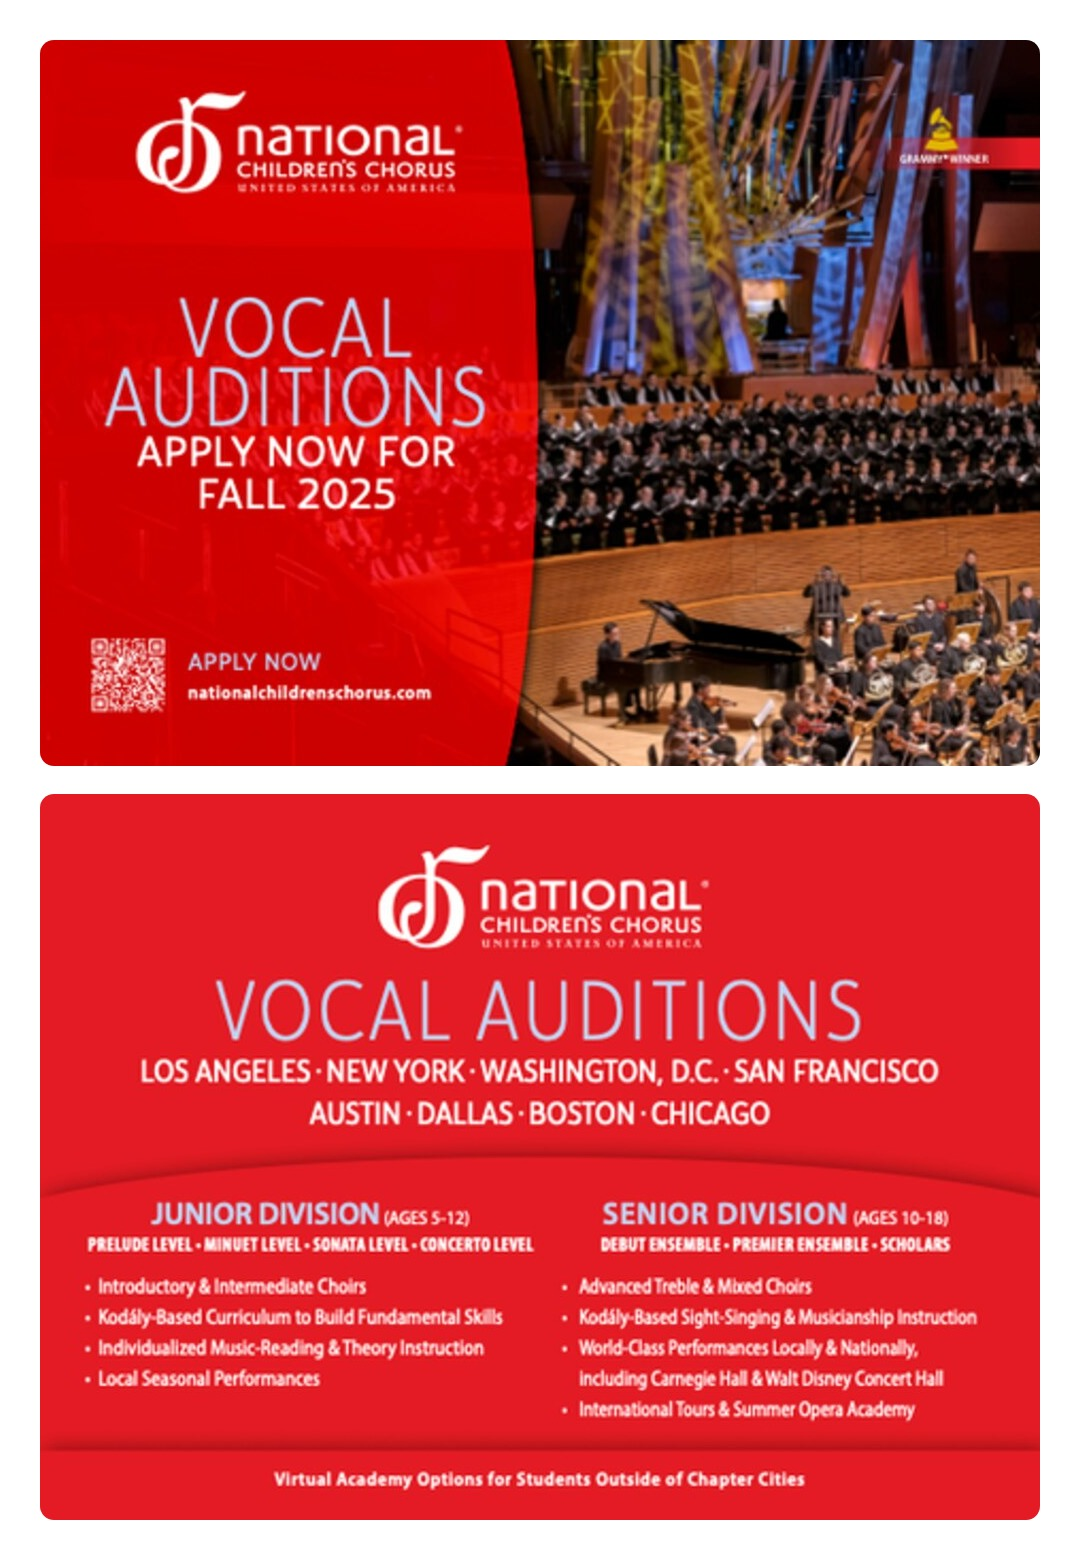
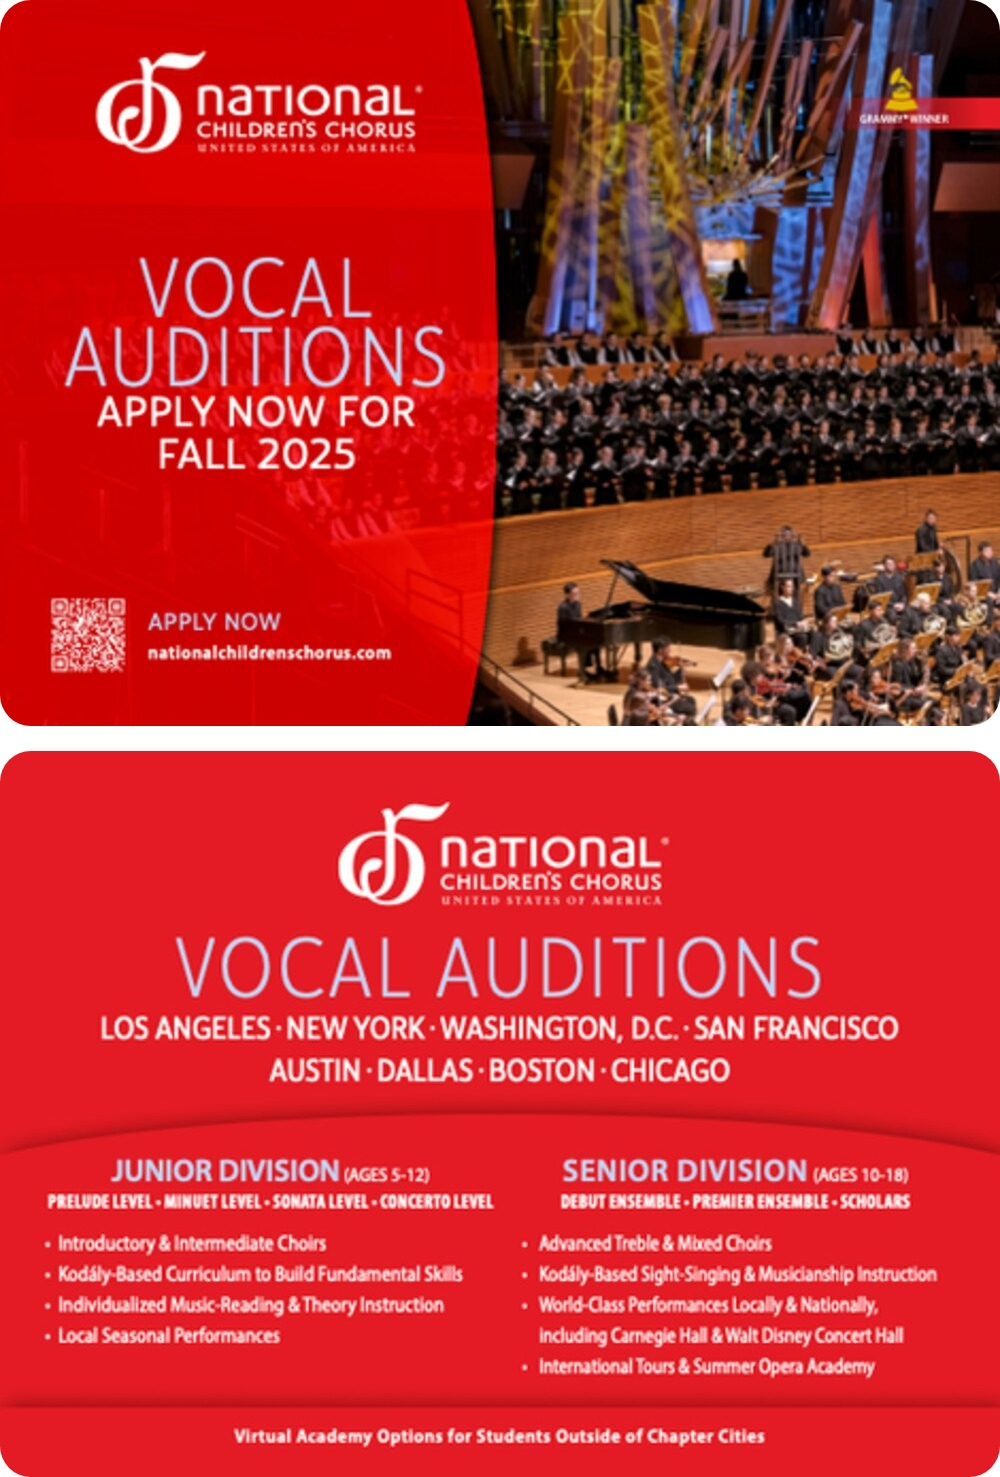
Matching white frame on all graphics; Meta ads on one slide; sweep fixes
- Every Portfolio graphic (slides and the enlarged view) now has the
  same 8px white frame with an 18px outer corner; the image's own
  corners follow the frame's inner edge (10px), so the curves match.
  Slide sizing accounts for the frame so nothing is cut off or skewed.
- Combined images rebuilt so the gaps between pieces equal the frame
  and each piece's corners match it: Meta ads (now one slide in Paid
  Media), logos, email banners, postcard front & back.
- Sweep fixes: "Spring 2026 Auditions Announcement Email" heading
  matches its bullet; "International Tour" capitalized consistently;
  Portfolio meta description uses the current section names; Contact
  page tab title is "Get In Touch".

Claude-Session: https://claude.ai/code/session_01QvpiMFZT9szqy6VGVVphfK

diff --git a/work.html b/work.html
@@ -5,7 +5,7 @@
 <meta charset="UTF-8">
 <meta name="viewport" content="width=device-width, initial-scale=1.0">
 <title>Portfolio — Robin Harwell</title>
-<meta name="description" content="Selected marketing projects by Robin Harwell, spanning email marketing, content creation, paid media, graphic design, and e-commerce.">
+<meta name="description" content="Selected marketing projects by Robin Harwell, spanning email communications, content creation, paid media, design and brand management, and e-commerce.">
 <link rel="icon" href="favicon-32.png" sizes="32x32" type="image/png">
 <link rel="icon" href="favicon-48.png" sizes="48x48" type="image/png">
 <link rel="icon" href="favicon-192.png" sizes="192x192" type="image/png">
@@ -13,7 +13,7 @@
 <link rel="preconnect" href="https://fonts.googleapis.com">
 <link rel="preconnect" href="https://fonts.gstatic.com" crossorigin>
 <link href="https://fonts.googleapis.com/css2?family=Poppins:wght@600;700;800&family=Inter:wght@400;500;600&display=swap" rel="stylesheet">
-<link rel="stylesheet" href="styles.css?v=27">
+<link rel="stylesheet" href="styles.css?v=28">
 </head>
 <body>
 
@@ -61,7 +61,7 @@
           </ul>
         </div>
         <div class="slide-note" data-slide="3">
-          <h4 class="slide-note-title">Project 3: Spring 2026 Audition Announcement Email</h4>
+          <h4 class="slide-note-title">Project 3: Spring 2026 Auditions Announcement Email</h4>
           <ul class="stat-list">
             <li>Wrote and sourced content for the Spring 2026 Auditions Announcement, then formatted in Mailchimp to launch the virtual event to current members and subscribers.</li>
           </ul>
@@ -94,7 +94,7 @@
         <div class="slide-note" data-slide="2">
           <h4 class="slide-note-title">Project 2: UK Tour Social Post</h4>
           <ul class="stat-list">
-            <li>Captured, edited, and posted this video of NCC students rehearsing at St John's Smith Square in London during the 2023 international tour.</li>
+            <li>Captured, edited, and posted this video of NCC students rehearsing at St John's Smith Square in London during the 2023 International Tour.</li>
           </ul>
         </div>
         <div class="slide-note" data-slide="3">
@@ -136,14 +136,14 @@
         <!-- EDIT HERE: each block's data-slide says which slide(s) it goes
              with (1 = first image); its heading and bullets show with that
              slide. A block without data-slide always shows. -->
-        <div class="slide-note" data-slide="1 2">
+        <div class="slide-note" data-slide="1">
           <h4 class="slide-note-title">Project 1: Meta Ads</h4>
           <ul class="stat-list">
             <li>Ran and A/B tested localized Meta ad campaigns across eight markets for Spring 2025 auditions, using performance data to guide future strategy.</li>
             <li>Drove 20 audition sign-ups from a $4,700 spend ($235 per sign-up), each a potential member worth about $2,500 a year.</li>
           </ul>
         </div>
-        <div class="slide-note" data-slide="3">
+        <div class="slide-note" data-slide="2">
           <h4 class="slide-note-title">Project 2: Paid Digital Placements</h4>
           <ul class="stat-list">
             <li>Write copy for paid digital placements across email blasts and blog posts, including this D.C. placement with Kid Friendly DC.</li>
@@ -152,8 +152,7 @@
         </div>
       </div>
       <div class="project-media project-media--pair">
-        <img src="assets/img/paid-media-ig-story.jpg" alt="Instagram story ad for National Children's Chorus Boston chapter vocal auditions" width="700" height="981" loading="lazy" style="--ar: 700 / 981">
-        <img src="assets/img/paid-media-fb-ad.jpg" alt="Facebook ad asking Does Your Child Love to Sing for the National Children's Chorus Austin chapter" width="700" height="1015" loading="lazy" style="--ar: 700 / 1015">
+        <img src="assets/img/paid-media-meta-ads.jpg" alt="Two Meta ads: an Instagram story ad for the National Children's Chorus Boston chapter vocal auditions, and a Facebook ad asking Does Your Child Love to Sing for the Austin chapter" width="1451" height="1015" loading="lazy" style="--ar: 1451 / 1015">
         <a class="media-video-link" href="https://www.kidfriendlydc.com/2026/04/23/2026-27-auditions-national-childrens-chorus/" target="_blank" rel="noopener" aria-label="View the sponsored post on Kid Friendly DC" style="--ar: 898 / 1847">
           <img src="assets/img/paid-placement-blog.jpg" alt="Sponsored blog post promoting National Children's Chorus vocal auditions for the Washington, D.C. chapter" width="898" height="1847" loading="lazy">
         </a>
@@ -185,9 +184,9 @@
         </div>
       </div>
       <div class="project-media project-media--pair">
-        <img src="assets/img/logos-hch-rodeo-rebel.webp" alt="Two logos: Hill Country Hangs, a moth illustration inside a circular badge, and Rodeo Rebel, rope lettering with a bow reading Leather Goods &amp; Accessories" width="1080" height="1917" loading="lazy" style="--ar: 1080 / 1917">
-        <img src="assets/img/email-footers-ncc-nyoa.png" alt="Email banners: a red National Children's Chorus banner reading nationalchildrenschorus.com, and a navy National Youth Opera Academy banner with the NYOA logo" width="1312" height="404" loading="lazy" style="--ar: 1312 / 404">
-        <img src="assets/img/postcard-fall2025-front-back.jpg" alt="Fall 2025 vocal auditions postcard, front and back: the front reads Apply Now for Fall 2025; the back lists the eight chapter cities and the Junior and Senior Divisions" width="1080" height="1560" loading="lazy" style="--ar: 1080 / 1560">
+        <img src="assets/img/logos-hch-rodeo-rebel.webp" alt="Two logos: Hill Country Hangs, a moth illustration inside a circular badge, and Rodeo Rebel, rope lettering with a bow reading Leather Goods &amp; Accessories" width="1016" height="1870" loading="lazy" style="--ar: 1016 / 1870">
+        <img src="assets/img/email-footers-ncc-nyoa.png" alt="Email banners: a red National Children's Chorus banner reading nationalchildrenschorus.com, and a navy National Youth Opera Academy banner with the NYOA logo" width="1200" height="278" loading="lazy" style="--ar: 1200 / 278">
+        <img src="assets/img/postcard-fall2025-front-back.jpg" alt="Fall 2025 vocal auditions postcard, front and back: the front reads Apply Now for Fall 2025; the back lists the eight chapter cities and the Junior and Senior Divisions" width="1000" height="1477" loading="lazy" style="--ar: 1000 / 1477">
       </div>
     </div>
 

diff --git a/styles.css b/styles.css
@@ -22,6 +22,11 @@
   --space-gap: 48px;     /* between major blocks, and around divider lines */
   --space-bottom: 80px;  /* after a page's last content, before the footer */
 
+  /* White frame around every Portfolio graphic. The image's own corners
+     follow the inner edge of the frame, so the curves line up. */
+  --mat: 8px;            /* frame thickness */
+  --mat-radius: 18px;    /* outer corner curve (inner curve = 18 - 8 = 10px) */
+
   --chip-col: 230px;     /* narrowest width of a Skills/Tools bubble column */
 }
 
@@ -321,7 +326,9 @@ main > .section:last-child { padding-bottom: var(--space-bottom); }
 .project-media img {
   width: 100%;
   max-width: 480px;
-  border-radius: var(--radius);
+  border: var(--mat) solid var(--white);
+  background: var(--white);
+  border-radius: var(--mat-radius);
   box-shadow: 0 24px 48px -20px rgba(44, 50, 71, .35);
 }
 
@@ -733,7 +740,9 @@ main > .section:last-child { padding-bottom: var(--space-bottom); }
   max-width: 100%;
   max-height: 100%;
   object-fit: contain;
-  border-radius: 10px;
+  border: var(--mat) solid var(--white);
+  background: var(--white);
+  border-radius: var(--mat-radius);
   box-shadow: 0 30px 80px rgba(0, 0, 0, .5);
   cursor: default;
 }
@@ -817,16 +826,16 @@ main > .section:last-child { padding-bottom: var(--space-bottom); }
   align-items: center;
   justify-content: center;
 }
-/* Each item is as large as fits the frame, keeping its own shape. */
+/* Each item is as large as fits the frame, keeping its own shape (the
+   white border is added around the image, so it is allowed for here). */
 .project-media .carousel-item {
-  width: min(100cqw, calc(100cqh * var(--ar, 1)));
+  width: min(100cqw, calc((100cqh - 2 * var(--mat)) * var(--ar, 1) + 2 * var(--mat)));
   max-width: none;
   height: auto;
-  aspect-ratio: var(--ar, 1);
   margin: 0;
   flex: none;
 }
-.project-media .carousel-item img { width: 100%; height: 100%; max-width: none; margin: 0; }
+.project-media .carousel-item img { width: 100%; height: auto; max-width: none; margin: 0; }
 
 /* Slides whose item is a link leave room above it for its label. */
 .carousel-slide.has-link { padding-top: 34px; }

diff --git a/contact.html b/contact.html
@@ -4,7 +4,7 @@
 <head>
 <meta charset="UTF-8">
 <meta name="viewport" content="width=device-width, initial-scale=1.0">
-<title>Contact — Robin Harwell</title>
+<title>Get In Touch — Robin Harwell</title>
 <meta name="description" content="Get in touch with Robin Harwell by phone, email, or LinkedIn.">
 <link rel="icon" href="favicon-32.png" sizes="32x32" type="image/png">
 <link rel="icon" href="favicon-48.png" sizes="48x48" type="image/png">
@@ -13,7 +13,7 @@
 <link rel="preconnect" href="https://fonts.googleapis.com">
 <link rel="preconnect" href="https://fonts.gstatic.com" crossorigin>
 <link href="https://fonts.googleapis.com/css2?family=Poppins:wght@600;700;800&family=Inter:wght@400;500;600&display=swap" rel="stylesheet">
-<link rel="stylesheet" href="styles.css?v=27">
+<link rel="stylesheet" href="styles.css?v=28">
 </head>
 <body>
 

diff --git a/index.html b/index.html
@@ -25,7 +25,7 @@
 <link rel="preconnect" href="https://fonts.googleapis.com">
 <link rel="preconnect" href="https://fonts.gstatic.com" crossorigin>
 <link href="https://fonts.googleapis.com/css2?family=Poppins:wght@600;700;800&family=Inter:wght@400;500;600&display=swap" rel="stylesheet">
-<link rel="stylesheet" href="styles.css?v=27">
+<link rel="stylesheet" href="styles.css?v=28">
 </head>
 <body>
 

diff --git a/resume.html b/resume.html
@@ -13,7 +13,7 @@
 <link rel="preconnect" href="https://fonts.googleapis.com">
 <link rel="preconnect" href="https://fonts.gstatic.com" crossorigin>
 <link href="https://fonts.googleapis.com/css2?family=Poppins:wght@600;700;800&family=Inter:wght@400;500;600&display=swap" rel="stylesheet">
-<link rel="stylesheet" href="styles.css?v=27">
+<link rel="stylesheet" href="styles.css?v=28">
 </head>
 <body>
 
